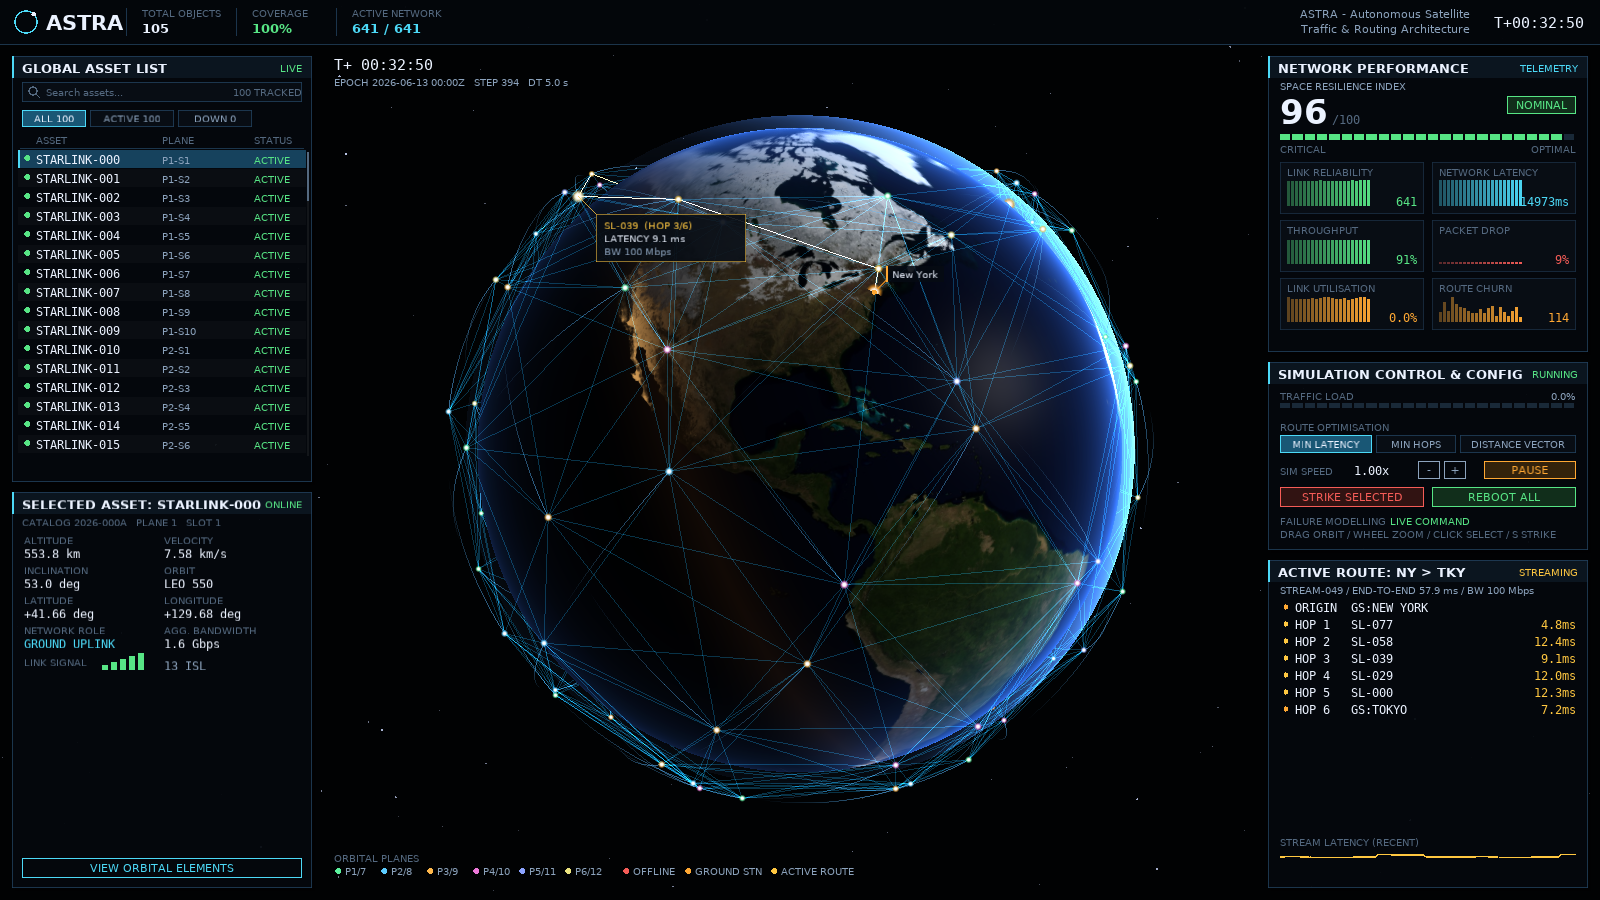
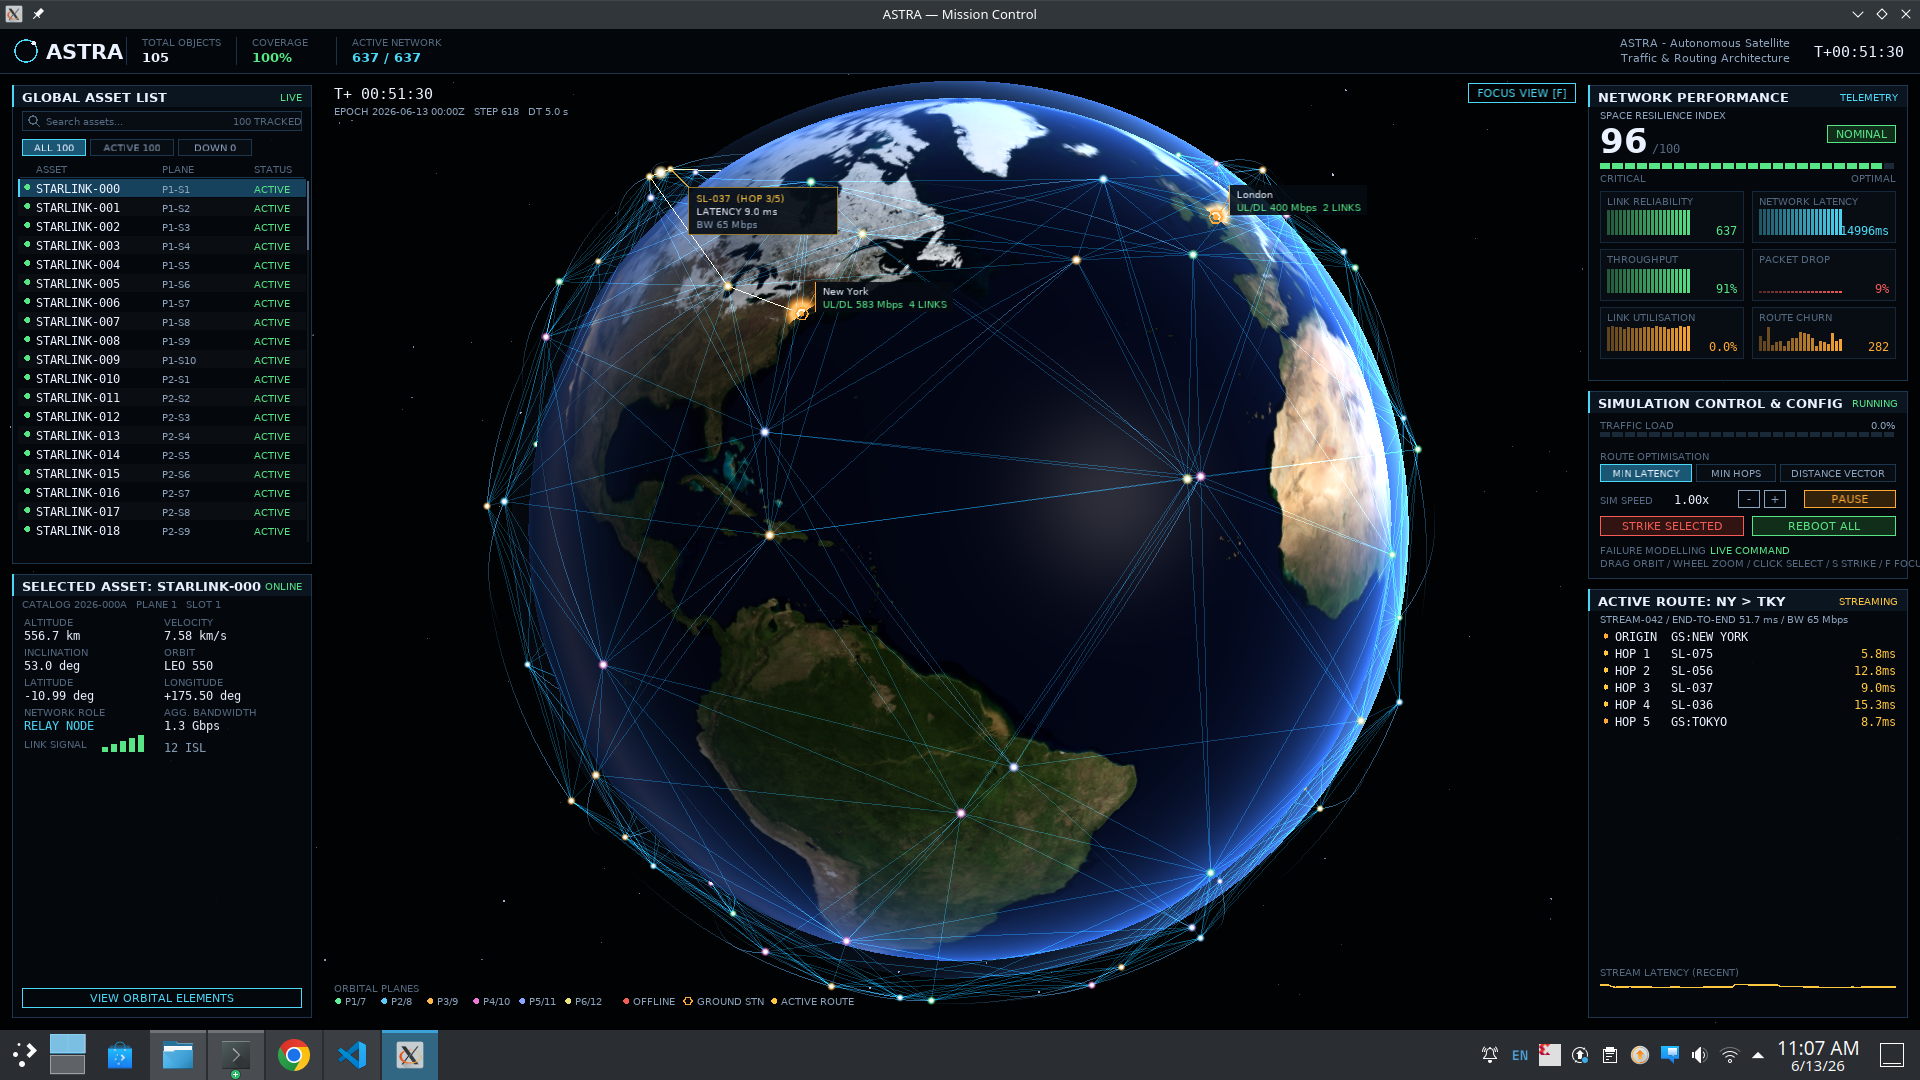
change the image to interfcae

diff --git a/readme.md b/readme.md
@@ -13,7 +13,7 @@ It combines:
 - **Failure/impairment** hooks (blackouts, latency spikes, loss scaling) + node strikes
 - A lock-free **sim↔render** boundary and a **GLX/EGL** 3D viewer
 
-![ASTRA C render](img/c_render_sample.png)
+![ASTRA C render](img/c_dashboard.png)
 
 > ASTRA started as a Python + PyQt6 prototype. It was ported to C, verified
 > numerically against the Python (machine-precision parity on orbits, bit-exact
